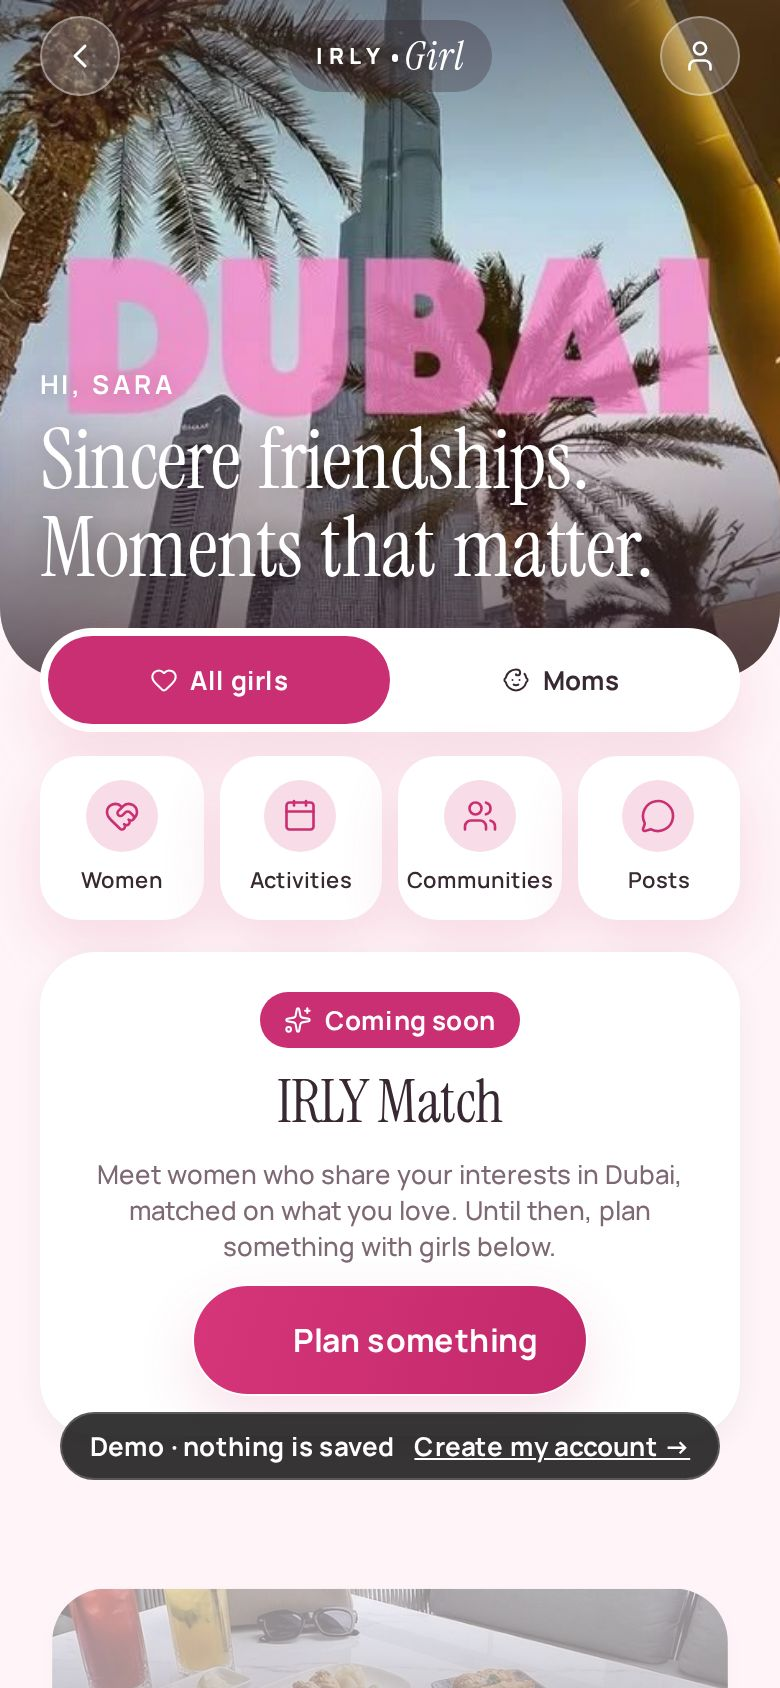
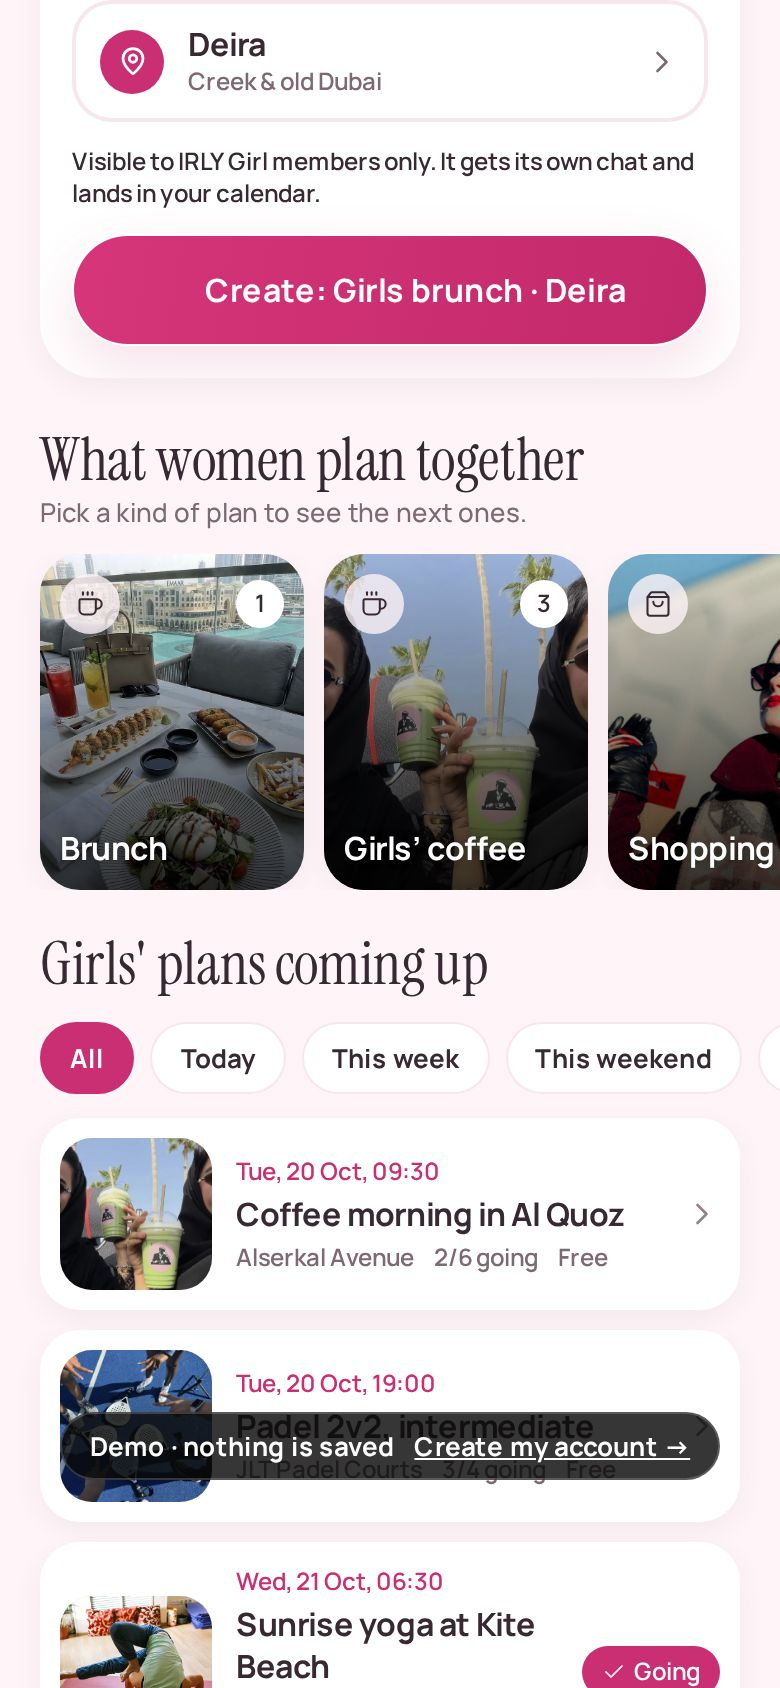
IRLY Girl : slideshow en 7 scènes sur getirly.com/girl et 12 vraies captures
- Slideshow EN/FR intégré à la page IRLY Girl : vraies captures de la
  démo dans un téléphone, cartes animées qui reprennent les mêmes prénoms
  et contenus, lecture auto (pause au survol, au focus, hors écran et en
  « réduire les animations »), flèches, clavier, glisser, CTA vers /app/girl.
- site-shots : 12 écrans IRLY Girl en thème clair (accueil, fil, post et
  commentaires, profil, communautés, groupe, chat, sorties, invitation,
  notifications, création, profil perso) ; la page les montre tous.
- Démo : plus d'indicateur de chargement serveur dans les notifications.
- Test DB : girl_feed renvoie les médias.

Claude-Session: https://claude.ai/code/session_013FHMkQ59onEZ4Qs9nswDKB

diff --git a/src/app/notifications.tsx b/src/app/notifications.tsx
@@ -66,7 +66,8 @@ export default function Notifications() {
 
   return (
     <Page title="Notifications" subtitle="Only what helps you meet people.">
-      <ServerNotifications />
+      {/* The demo has no server: only its examples, no loading line. */}
+      {DEMO ? null : <ServerNotifications />}
       {auth === 'out' && !items.length ? (
         <View style={[styles.list, { alignItems: 'center', gap: 12, paddingTop: space[6] }]}>
           <Icon name="bell" size={26} color={t.c.textSecondary} />
